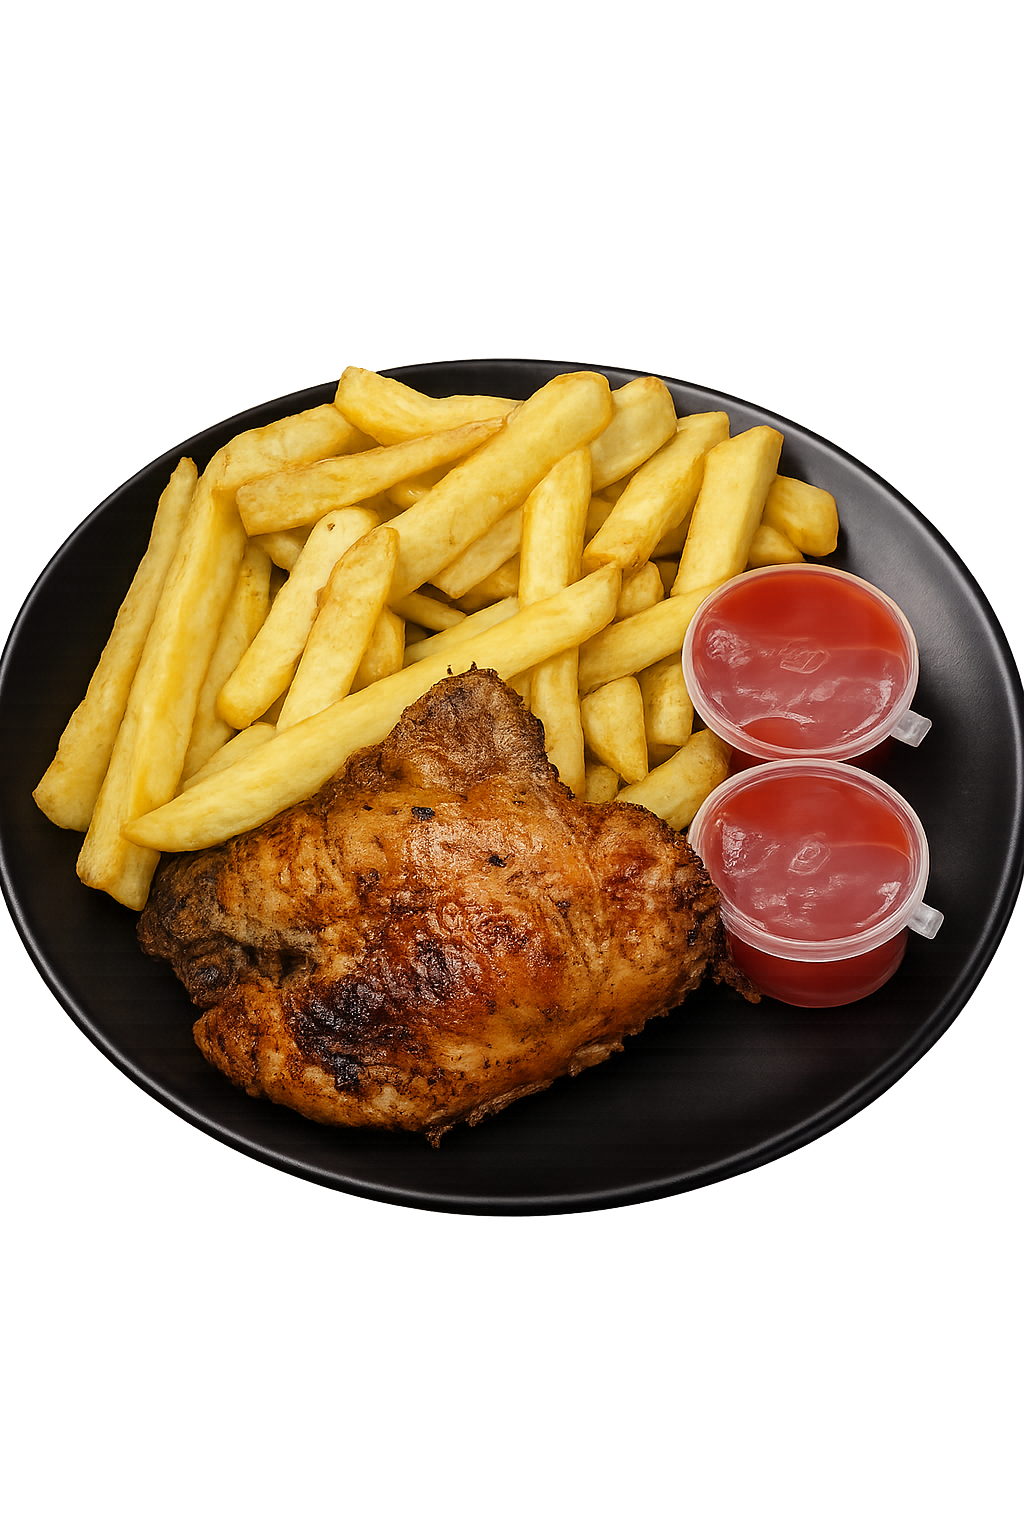
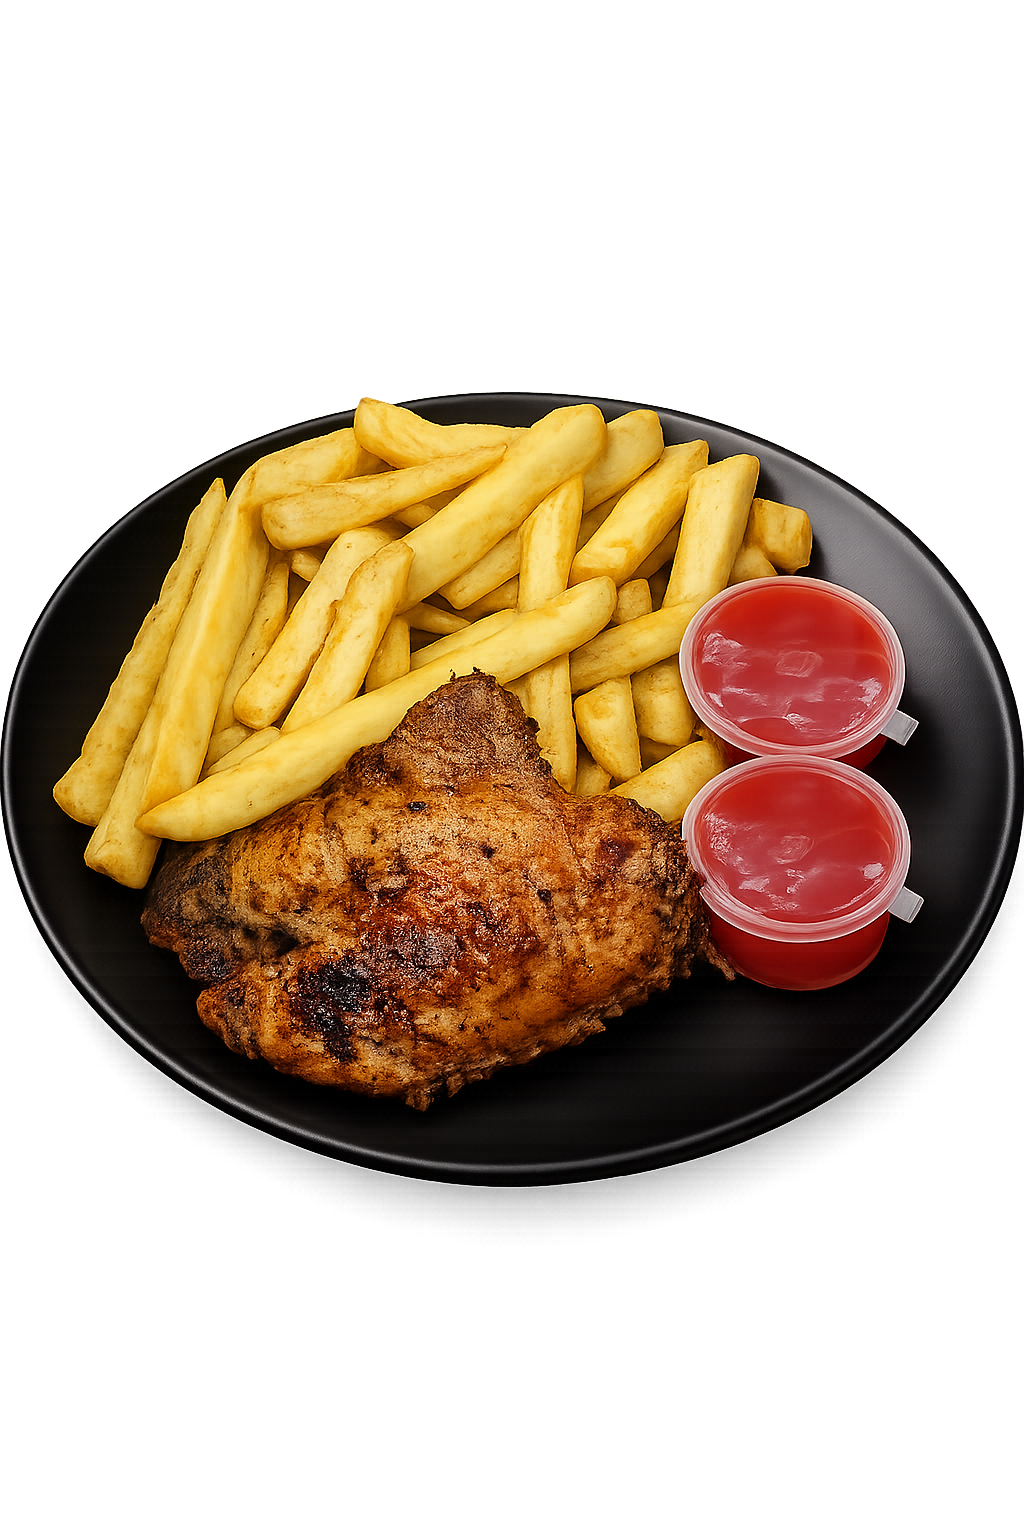
feat: update hero images and enhance layout responsiveness; add loading attribute to images in Menu and Services sections

Changed region(s): [[0.0, 0.2188, 1.0, 0.8125]]

diff --git a/views/home/HeroSection.tsx b/views/home/HeroSection.tsx
@@ -5,12 +5,12 @@ const floatingPlates = [
   {
     src: "/hero/heroImage1.png",
     className:
-      "-left-28 top-[-5rem] h-[22.5rem] w-[22.5rem] lg:-left-40 lg:top-[-7rem] lg:h-[30rem] lg:w-[30rem] xl:top-[-9rem] xl:h-[37.5rem] xl:w-[37.5rem]",
+      "-left-36 top-[-7rem] h-[26rem] w-[34rem] lg:-left-52 lg:top-[-9rem] lg:h-[34rem] lg:w-[45rem] xl:top-[-12rem] xl:h-[43rem] xl:w-[56rem]",
   },
   {
     src: "/hero/heroImage2.png",
     className:
-      "bottom-[-6rem] right-[1%] h-[22rem] w-[22rem] lg:bottom-[-7rem] lg:right-[6%] lg:h-[32rem] lg:w-[32rem] xl:h-[41rem] xl:w-[41rem]",
+      "bottom-[-8rem] right-[-2%] h-[26rem] w-[34rem] lg:bottom-[-9rem] lg:right-[3%] lg:h-[36rem] lg:w-[48rem] xl:h-[46rem] xl:w-[60rem]",
   },
 ];
 
@@ -113,8 +113,9 @@ export function HeroSection() {
                   src={plate.src}
                   alt=""
                   fill
-                  sizes="(min-width: 1280px) 600px, (min-width: 1024px) 480px, 360px"
+                  sizes="(min-width: 1280px) 896px, (min-width: 1024px) 720px, 544px"
                   className="object-contain drop-shadow-2xl"
+                  loading="eager"
                 />
               </div>
             ))}

diff --git a/views/home/AboutSection.tsx b/views/home/AboutSection.tsx
@@ -49,13 +49,14 @@ export function AboutSection() {
         <div className="relative min-h-[28rem] md:min-h-[34rem]">
           <div className="absolute left-4 top-1/2 h-[24rem] w-[16rem] -translate-y-1/2 rounded-lg bg-gold-500 sm:left-10 sm:h-[29rem] sm:w-[19rem] lg:left-14 lg:h-[34rem] lg:w-[22rem]" />
 
-          <div className="pointer-events-none absolute left-[-1rem] top-1/2 z-raised h-[28rem] w-[28rem] -translate-y-1/2 sm:left-0 sm:h-[33rem] sm:w-[33rem] lg:left-1 lg:h-[40rem] lg:w-[40rem]">
+          <div className="pointer-events-none absolute left-[-2rem] top-1/2 z-raised h-[28rem] w-[36rem] -translate-y-1/2 sm:left-[-1rem] sm:h-[33rem] sm:w-[43rem] lg:left-[-2rem] lg:h-[40rem] lg:w-[52rem]">
             <Image
               src="/hero/heroImage3.png"
               alt="Prepared Nigerian dish"
               fill
-              sizes="(min-width: 1024px) 640px, (min-width: 640px) 528px, 448px"
+              sizes="(min-width: 1024px) 832px, (min-width: 640px) 688px, 576px"
               className="object-contain drop-shadow-2xl"
+              loading="eager"
             />
           </div>
         </div>

diff --git a/views/home/ServicesSection.tsx b/views/home/ServicesSection.tsx
@@ -205,6 +205,7 @@ export function ServicesSection() {
               fill
               sizes="(min-width: 1024px) 688px, (min-width: 640px) 576px, 480px"
               className="object-contain drop-shadow-2xl"
+              loading="eager"
             />
           </div>
         </div>

diff --git a/views/home/MenuSection.tsx b/views/home/MenuSection.tsx
@@ -231,7 +231,7 @@ function MenuCard({
               ? "(min-width: 640px) 336px, 288px"
               : "(min-width: 1024px) 240px, 216px"
           }
-          className="object-contain p-1"
+          className="scale-125 object-contain p-0"
         />
       </div>
 
